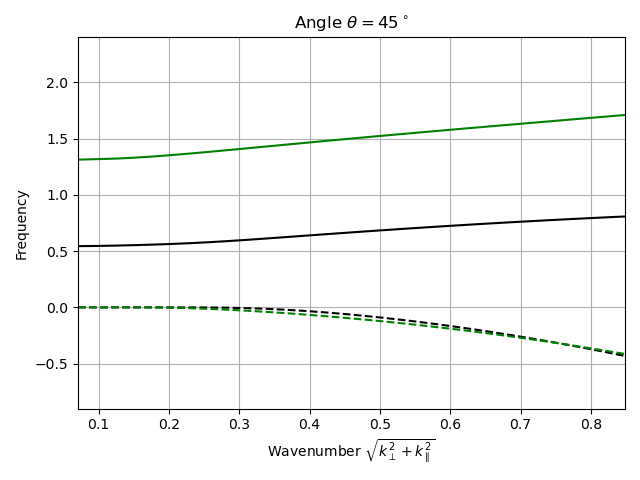
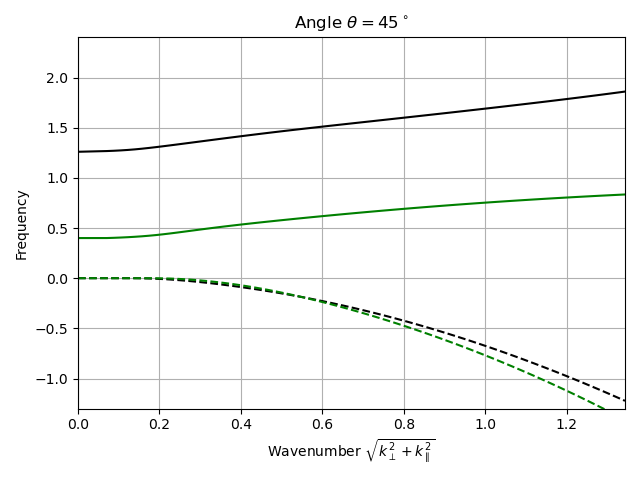
Fixed 45deg

diff --git a/tools/dispersion.py b/tools/dispersion.py
@@ -131,13 +131,13 @@ def jacobian_fsolve(om, wave, ring_j, terms):
 
 
 # Define complex plane
-angle = 80 * np.pi / 180.0
-k_perp = 0.15
+angle = 45 * np.pi / 180.0
+k_perp = 0.55
 k_para = k_perp / np.tan(angle)
 print(k_para), print(k_perp)
 
-z_r = np.linspace(-0.5, 2.5, num=500)
-z_i = np.linspace(-0.2, 0.02, num=500)
+z_r = np.linspace(-0.5, 3.5, num=500)
+z_i = np.linspace(-0.8, 0.02, num=500)
 z = (np.tensordot(z_r, np.ones_like(z_i), axes=0) +
      1.0j * np.tensordot(np.ones_like(z_r), z_i, axes=0))
 X, Y = np.tensordot(z_r, np.ones_like(z_i), axes=0), np.tensordot(np.ones_like(z_r), z_i, axes=0)
@@ -164,8 +164,8 @@ plt.show()
 # Root solve, analysis at 45 degrees to field
 num = 75
 
-angle = 80 * np.pi / 180.0
-k_perp = np.linspace(0.001, 1.75, num=num)
+angle = 45 * np.pi / 180.0
+k_perp = np.linspace(0.05, 0.95, num=num)
 k_para = k_perp / np.tan(angle)
 
 wave = np.sqrt(k_para ** 2.0 + k_perp ** 2.0)
@@ -178,55 +178,66 @@ guess_r1, guess_i1 = np.zeros_like(k_para), np.zeros_like(k_para)
 guess_r2, guess_i2 = np.zeros_like(k_para), np.zeros_like(k_para)
 guess_r3, guess_i3 = np.zeros_like(k_para), np.zeros_like(k_para)
 
-guess_r1[k_perp <= 0.22] = 1.4
+
+# 80 degrees
+guess_r1[k_perp <= 0.22] = 1.26
 guess_r1[k_perp >= 0.22] = 1.38
-guess_r1[k_perp >= 0.3] = 1.3
-guess_r1[k_perp >= 0.5] = 1.3
-guess_r1[k_perp >= 0.6] = 1.25
-guess_r1[k_perp >= 0.7] = 1.23
+guess_r1[k_perp >= 0.3] = 1.4
+guess_r1[k_perp >= 0.4] = 1.5
+guess_r1[k_perp >= 0.5] = 1.6
+guess_r1[k_perp >= 0.6] = 1.7
+guess_r1[k_perp >= 0.8] = 1.8
 
-guess_i1[k_perp <= 0.2] = -0.000001
-guess_i1[k_perp >= 0.2] = -0.000001
-guess_i1[k_perp >= 0.7] = -0.03
-guess_i1[k_perp >= 1.0] = -0.2
+guess_i1[k_perp <= 0.2] = -0.01
+guess_i1[k_perp >= 0.2] = -0.01
+guess_i1[k_perp >= 0.4] = -0.25
+guess_i1[k_perp >= 0.5] = -0.3
+guess_i1[k_perp >= 0.6] = -0.5
+guess_i1[k_perp >= 0.8] = -1
 
-guess_r2[k_perp <= 0.2] = 0.1
-guess_r2[k_perp >= 0.2] = 0.1
-guess_r2[k_perp >= 0.9] = 0.2
-guess_r2[k_perp >= 1.4] = 0.3
+guess_r2[k_perp <= 0.2] = 0.37
+guess_r2[k_perp >= 0.2] = 0.4
+guess_r2[k_perp >= 0.4] = 0.6
+guess_r2[k_perp >= 0.7] = 0.7
+guess_r2[k_perp >= 0.8] = 0.8
+# guess_r2[k_perp >= 0.9] = 0.7
 
-guess_i2[k_perp <= 0.2] = -0.001
-guess_i2[k_perp >= 0.2] = -0.01
-guess_i2[k_perp >= 0.9] = -0.1
-guess_i2[k_perp >= 1] = -0.2
-guess_i2[k_perp >= 1.4] = -0.4
+guess_i2[k_perp <= 0.2] = -0.0001
+guess_i2[k_perp >= 0.2] = -0.1
+guess_i2[k_perp >= 0.4] = -0.45
+guess_i2[k_perp >= 0.6] = -0.6
+guess_i2[k_perp >= 0.7] = -0.9
+guess_i2[k_perp >= 0.8] = -1.2
+# guess_i2[k_perp >= 1.4] = -0.4
 
 guess_r3[k_perp <= 0.2] = 2.01
 guess_r3[k_perp >= 0.2] = 2.05
-guess_r3[k_perp >= 0.9] = 2.2
+guess_r3[k_perp >= 0.2] = 2.2
+guess_r3[k_perp >= 0.9] = 2.5
 
-guess_i3[k_perp <= 0.2] = -0.01
-guess_i3[k_perp >= 0.2] = -0.05
-guess_i3[k_perp >= 0.9] = -0.1
-guess_i3[k_perp >= 1] = -0.2
+guess_i3[k_perp <= 0.2] = -0.15
+guess_i3[k_perp >= 0.2] = -0.3
+guess_i3[k_perp >= 0.5] = -0.5
+guess_i3[k_perp >= 0.9] = -0.7
+guess_i3[k_perp >= 1] = -1.2
 
 for idx in range(k_para.shape[0]):
     sol = opt.root(dispersion_fsolve, x0=np.array([guess_r1[idx], guess_i1[idx]]),
-                   args=(waves[:, idx], 0, 5), jac=jacobian_fsolve)
+                   args=(waves[:, idx], 0, 10), jac=jacobian_fsolve)
     mode1[idx] = sol.x[0] + 1j * sol.x[1]
     sol = opt.root(dispersion_fsolve, x0=np.array([guess_r2[idx], guess_i2[idx]]),
                    args=(waves[:, idx], 0, 10), jac=jacobian_fsolve)
     mode2[idx] = sol.x[0] + 1j * sol.x[1]
-    sol = opt.root(dispersion_fsolve, x0=np.array([guess_r3[idx], guess_i3[idx]]),
-                   args=(waves[:, idx], 0, 10), jac=jacobian_fsolve)
-    mode3[idx] = sol.x[0] + 1j * sol.x[1]
+    # sol = opt.root(dispersion_fsolve, x0=np.array([guess_r3[idx], guess_i3[idx]]),
+    #                args=(waves[:, idx], 0, 10), jac=jacobian_fsolve)
+    # mode3[idx] = sol.x[0] + 1j * sol.x[1]
 
 # Scale solution to frequency
 # mode1_om = np.multiply(k_para, mode1)
 # mode2_om = np.multiply(k_para, mode2)
-mode1_om = np.append([1.414], mode1)
+mode1_om = np.append([1.26], mode1)
 wave = np.append([0], wave)
-mode2_om = np.append([0.087], mode2)
+mode2_om = np.append([0.4], mode2)
 mode3_om = np.append([2], mode3)
 
 plt.figure()
@@ -234,14 +245,49 @@ plt.plot(wave, np.real(mode1_om), 'k')
 plt.plot(wave, np.imag(mode1_om), 'k--')
 plt.plot(wave, np.real(mode2_om), 'g')
 plt.plot(wave, np.imag(mode2_om), 'g--')
-plt.plot(wave, np.real(mode3_om), 'r')
-plt.plot(wave, np.imag(mode3_om), 'r--')
-plt.axis([wave[0], wave[-1], -0.9, 2.4])
+# plt.plot(wave, np.real(mode3_om), 'r')
+# plt.plot(wave, np.imag(mode3_om), 'r--')
+plt.axis([wave[0], wave[-1], -1.3, 2.4])
 plt.xlabel(r'Wavenumber $\sqrt{k_\perp^2+k_\parallel^2}$'), plt.ylabel('Frequency')
-plt.grid(True), plt.title(r'Angle $\theta=80^\circ$'), plt.tight_layout()
+plt.grid(True), plt.title(r'Angle $\theta=45^\circ$'), plt.tight_layout()
 plt.show()
 
 quit()
 
 # Run parameters
 # k_para, k_perp = 0.5, 0.5
+
+
+# Guesses
+# 80 degrees
+# guess_r1[k_perp <= 0.22] = 1.4
+# guess_r1[k_perp >= 0.22] = 1.38
+# guess_r1[k_perp >= 0.3] = 1.3
+# guess_r1[k_perp >= 0.5] = 1.3
+# guess_r1[k_perp >= 0.6] = 1.25
+# guess_r1[k_perp >= 0.7] = 1.23
+#
+# guess_i1[k_perp <= 0.2] = -0.000001
+# guess_i1[k_perp >= 0.2] = -0.000001
+# guess_i1[k_perp >= 0.7] = -0.03
+# guess_i1[k_perp >= 1.0] = -0.2
+#
+# guess_r2[k_perp <= 0.2] = 0.1
+# guess_r2[k_perp >= 0.2] = 0.1
+# guess_r2[k_perp >= 0.9] = 0.2
+# guess_r2[k_perp >= 1.4] = 0.3
+#
+# guess_i2[k_perp <= 0.2] = -0.001
+# guess_i2[k_perp >= 0.2] = -0.01
+# guess_i2[k_perp >= 0.9] = -0.1
+# guess_i2[k_perp >= 1] = -0.2
+# guess_i2[k_perp >= 1.4] = -0.4
+#
+# guess_r3[k_perp <= 0.2] = 2.01
+# guess_r3[k_perp >= 0.2] = 2.05
+# guess_r3[k_perp >= 0.9] = 2.2
+#
+# guess_i3[k_perp <= 0.2] = -0.01
+# guess_i3[k_perp >= 0.2] = -0.05
+# guess_i3[k_perp >= 0.9] = -0.1
+# guess_i3[k_perp >= 1] = -0.2
